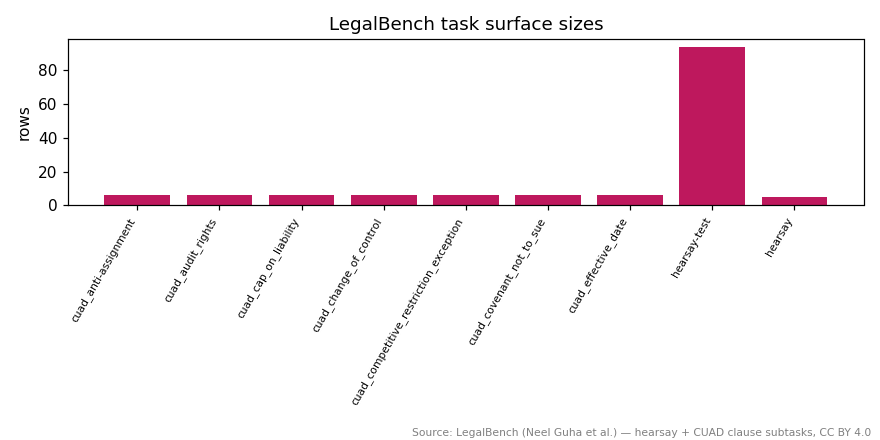
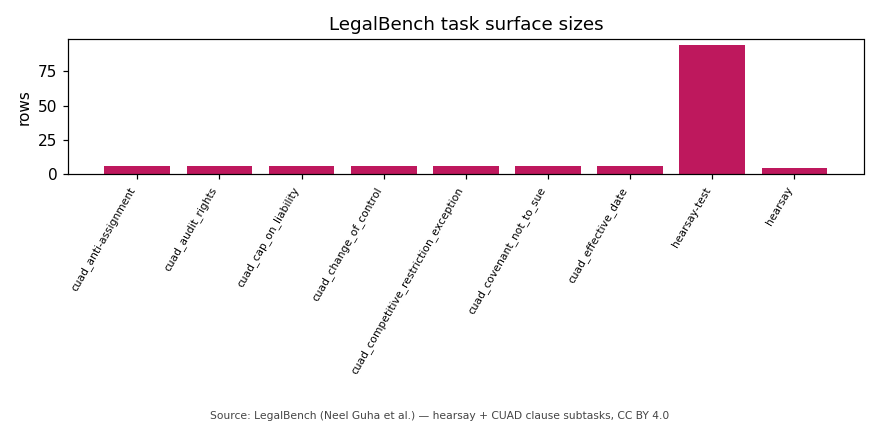
EDA figures: citations moved into a dedicated footer band — no more label/legend overlap
- explore_cuad.py::_add_citation + explore_pipeline_sources.py::_add_citation now
  reserve a footer band (tight_layout rect bottom 0.10/0.11) and center the
  citation inside it, instead of anchoring below the axes where it collided with
  x-axis labels and tick labels (measured: 8/10 CUAD figures affected)
- all 17 figures regenerated (CUAD 01-10 + maud/s1/docclass/legalbench suites)
- two new renderer-based regression tests pin the no-overlap contract
- CHANGELOG [Unreleased] entry

diff --git a/tests/test_pipeline_sources_eda.py b/tests/test_pipeline_sources_eda.py
@@ -72,3 +72,97 @@ def test_pipeline_sources_eda_reports_are_reproducible():
             assert fresh.read_text(encoding="utf-8") == committed.read_text(encoding="utf-8"), (
                 f"{name} report drifted from the committed copy — rerun the EDA script"
             )
+
+
+def _figure_footer_overlaps(fig, ax=None):
+    """Renderer-based collision scan: any figure text whose extent crosses the
+    axes bottom edge (the x labels / tick labels / legend live there) counts
+    as an overlap. Returns the offending texts' content."""
+    import matplotlib
+
+    fig.canvas.draw()
+    renderer = fig.canvas.get_renderer()
+    if ax is None:
+        ax = fig.axes[0]
+    ax_bottom = ax.get_window_extent(renderer=renderer).y0
+    hits = []
+    for t in fig.texts:
+        b = t.get_window_extent(renderer=renderer)
+        if b.y1 > ax_bottom - 0.5:  # text rises into the axes/label region
+            hits.append(t.get_text())
+    return hits
+
+
+@pytest.mark.skipif(
+    not (REPO_ROOT / "data" / "cuad_pdfs" / "CUAD_v1.json").exists(),
+    reason="CUAD corpus absent (gitignored) — download_cuad_pdfs first",
+)
+def test_eda_figure_citations_stay_in_their_footer_band(tmp_path):
+    """The dataset-citation footer must never overlap axes labels / legends
+    (regression guard for the footer-band rework): the CUAD figures are
+    rendered into a tmp dir and scanned for footer text that rises into the
+    axes region."""
+    import matplotlib
+
+    matplotlib.use("Agg")
+    import matplotlib.pyplot as plt
+
+    from scripts.eda import explore_cuad as ec
+
+    ec.FIG = tmp_path / "cuad_figs"
+    ec.FIG.mkdir(parents=True, exist_ok=True)
+    captured = []
+    orig = ec._add_citation
+
+    def probe(fig, ax, note=""):
+        orig(fig, ax, note)  # real footer band + layout
+        captured.append(fig)
+
+    ec._add_citation = probe
+    try:
+        ec.make_figures(ec.analyze())
+    finally:
+        ec._add_citation = orig
+    plt.close("all")
+
+    assert len(captured) >= 10, f"expected 10 CUAD figures, got {len(captured)}"
+    offenders = {}
+    for fig in captured:
+        text = _figure_footer_overlaps(fig)
+        if text:
+            offenders[fig] = [t[:60] for t in text]
+    assert not offenders, f"citation overlapping axes/labels on {len(offenders)} figure(s)"
+
+
+@pytest.mark.skipif(
+    not all(p.exists() for p in _REQUIRED),
+    reason="corpus dumps absent (gitignored)",
+)
+def test_pipeline_sources_figure_citations_stay_in_their_footer_band(tmp_path):
+    import matplotlib
+
+    matplotlib.use("Agg")
+    import matplotlib.pyplot as plt
+
+    from scripts.eda import explore_pipeline_sources as eps
+
+    captured = []
+    orig = eps._add_citation
+
+    def probe(fig, note=""):
+        orig(fig, note)  # real footer band + layout
+        captured.append(fig)
+
+    eps._add_citation = probe
+    try:
+        for name, (analyze, _r, _f, make_figs) in eps._SOURCES.items():
+            figdir = tmp_path / name / "figures"
+            figdir.mkdir(parents=True, exist_ok=True)
+            make_figs(analyze(), figdir)
+    finally:
+        eps._add_citation = orig
+    plt.close("all")
+
+    assert len(captured) >= 7, f"expected 7 pipeline-source figures, got {len(captured)}"
+    offenders = [t[:60] for fig in captured for t in _figure_footer_overlaps(fig)]
+    assert not offenders, f"citation overlapping axes/labels: {offenders}"

diff --git a/scripts/eda/explore_pipeline_sources.py b/scripts/eda/explore_pipeline_sources.py
@@ -599,8 +599,7 @@ def make_s1_figures(res: dict, figdir: Path) -> None:
     ax2.bar(res["subclasses"].keys(), res["subclasses"].values(), color="#0f766e")
     ax2.set_title("record-type subclass")
     ax2.tick_params(axis="x", rotation=30)
-    fig.text(0.99, 0.01, CITES["s1"], ha="right", fontsize=7, color="gray")
-    fig.tight_layout(rect=(0, 0.05, 1, 1))
+    _add_citation(fig, CITES["s1"])
     fig.savefig(figdir / "s1_exhibits_and_subclasses.png", dpi=110)
     plt.close(fig)
 

diff --git a/CHANGELOG.md b/CHANGELOG.md
@@ -29,6 +29,7 @@ history of the repository's tags. Format follows
 - **llama-4-scout × contracts_specialist_v31 extraction — cheap model collapses on structured extraction** — full-509 chunked extraction eval on the champion prompt `contracts_specialist_v31` (90k/8k windows, temp 0.1, reasoning none, `--research-funding-key`, manifest `data/manifests/llama4scout_v31_510_chunked_full.jsonl`) with **`meta-llama/llama-4-scout`**: **overall 0.6968 vs the qwen3.7-flash champion 0.8737 = −17.7pp** (509/509, 0 errors, 10.34M tokens). The model is classification-capable (0.888 on the sorter) but collapses on structured extraction: **key_obligations recall 0.259 / exact 0.048** (span-count signed mean −4.06 → under-extraction), **term_length exact 0.078** (date MAE 1,643 days, R² −4.04 → containment collapse), renewal_terms exact 0.292, termination_clauses exact 0.714. Verdict: cost-floor arm only — does NOT approach the champion on extraction. Run `llama-4-scout_contracts_specialist_v31_extraction_langfuse`.
 
 ### Changed
+- **EDA figure citations moved into a dedicated footer band (no more label/legend overlap)** — `scripts/eda/explore_cuad.py::_add_citation` and `scripts/eda/explore_pipeline_sources.py::_add_citation` previously drew the dataset citation anchored below the axes (`ax.text` at negative axes coords / `fig.text` at the bottom-right corner), which collided with the x-axis labels and tick labels on short figures (measured: 8/10 CUAD figures + several pipeline-source figures). Both now reserve a footer band (`fig.tight_layout(rect=[0, 0.10/0.11, 1, 1])`) and center the citation inside it, so the axes + labels + legends always sit fully above the text. All 17 figures regenerated (`data/eda/figures/01–10` + the maud/s1/docclass/legalbench suites); the no-overlap contract is pinned by two new renderer-based regression tests in `tests/test_pipeline_sources_eda.py`.
 - **llm-dojo-scoring integration fixes — the shim suite turned green (KANBAN-044)** — `src/dojo_config.py` now coerces the taxonomy's field-scoring values to the package's canonical types before `configure()` (`ambiguous_band` list→`(float, float)` tuple, `partial_gt_fields`/`containment_fields` list→`set[str]` — the package's inline `configure()` sets verbatim and only its YAML-file loader coerces); `src/metrics.py::extraction_diagnostics` binds `master` into the `expected_resolver` closure (the package calls the resolver with its own master slot, so the curated master-label preference was silently lost to the raw clause-text fallback — the resolver contract is `(master, filename, field, fallback)`); the external `llm_dojo_scoring.cli` gains a `python -m` entry dispatch (`analyze|export|sync` subcommand routing, default analyze; console entry points now accept an optional argv) — shipped upstream as `v0.1.1`→`v0.1.2` and the dep re-pinned to `@v0.1.2` in `pyproject.toml`/`requirements.txt`; 4 test expectations in `tests/test_dojo_integration.py` corrected to the real contract (compound `entity_list:free_text` field types, re-export identity + header equality instead of lambda-object equality, the sweep workbook's trailing reference-format `Notes` column, and the master-CSV `-Answer`/normalized-filename key format). `tests/test_dojo_integration.py` 11/11 green.
 - **EDA figures regenerated with CUAD dataset citations + self-contained data paths (KANBAN-014 follow-on)** — `scripts/eda/explore_cuad.py` renders a **dataset citation footer on every figure** via a shared `_add_citation()` helper ("Source: CUAD — Contract Understanding Atticus Dataset (Hendrycks et al., NeurIPS 2021), The Atticus Project · huggingface.co/datasets/theatticusproject/cuad" + per-figure source notes), and figure 01 is retitled **"CUAD contract subclass distribution (25-family taxonomy, n=509)"** with per-bar count labels. The script is now **self-contained**: `CUAD_JSON` prefers the repo-local `data/cuad_pdfs/CUAD_v1.json` (gitignored corpus, sibling llm-mailroom path kept as fallback); the subtype distribution (figure 01 + report composition table) reads the **verified experiment-log per-subtype totals** (`SUBTYPE_FALLBACK`, sums to 509) instead of the vanished `subtype_distribution.json`; figure 07's per-subtype text-length stats are computed from the aligned corpus texts grouped by a **title-derived 25-family matcher** (longest-pattern-wins; patterns from `SUBTYPE_CUAD_FOLDERS` + `CONTRACT_SUBTYPES` labels; 503/510 contracts matched). All 10 figures + `data/eda/report.md` regenerated (510/510 texts aligned, 509 from the synced full corpus); `data/eda/findings.md` byte-identical (headline stats unchanged). Requires `data/cuad_pdfs/CUAD_v1.json` (40 MB, `scripts/datasets/download_cuad_pdfs.py`).
 - **Sorter v13 model sweep — complete verified table (7 models, KANBAN-036 reconciliation)** — every model evaluated on the champion `sorter_v13` prompt (full-509, seed 42, temp 0.1, reasoning medium, 509/509 rows, 0 errors), reconciled against `reports/experiment_log.jsonl` with the strict subtype_accuracy + percentile-bootstrap CI: **`deepseek/deepseek-v4-pro` 0.9528** (equiv 0.9548, 24 fails, CI [0.9332, 0.9705]) — the only model to beat the champion; **`qwen/qwen3.7-flash` 0.9430** (champion, 0.9470, 29, [0.9214, 0.9627]); **`deepseek/deepseek-v4-flash` 0.9332** (0.9352, 34, [0.9096, 0.9528]); **`openai/gpt-5-nano` 0.8978** (0.9018, 52, [0.8703, 0.9234]); **`meta-llama/llama-3.3-70b-instruct` 0.8900** (0.9116, 56, [0.8625, 0.9175]); **`meta-llama/llama-4-scout` 0.8880** (0.9077, 57, [0.8605, 0.9136]); **`openai/gpt-4.1-nano` 0.8782** (0.8959, 62, [0.8487, 0.9057]). Corrections vs the earlier per-arm entries: **deepseek-v4-flash canonical is 0.9332** (the clean @06:38 rerun), not 0.9253 (the first @05:44 run — both are clean 509/509, the first is superseded); **llama-4-scout 0.8880 was previously omitted** from the sweep summaries (KANBAN-041's "no llama sorter runs" claim is superseded); **llama-3.3-70b-instruct ran twice** (0.8900 @06:54 → 0.8782 @10:51 duplicate; canonical 0.8900); **gpt-4.1-nano is complete at 0.8782**, not "pending". Cross-model significance is NOT claimed — the ±0.006 noise band was measured on identical-prompt qwen reruns, so a cross-model delta needs its own noise-floor control. **Sweep complete + workbook regenerated** — `reports/sheets/Sorter_Model_Sweep_Results.xlsx` now covers all 8 models (22 rows incl. smokes + the degraded first qwen run; llama-4-scout, gpt-4o-mini and the resumed gpt-4.1-nano full-509 rows added), superseding the earlier "regen needed" note.
